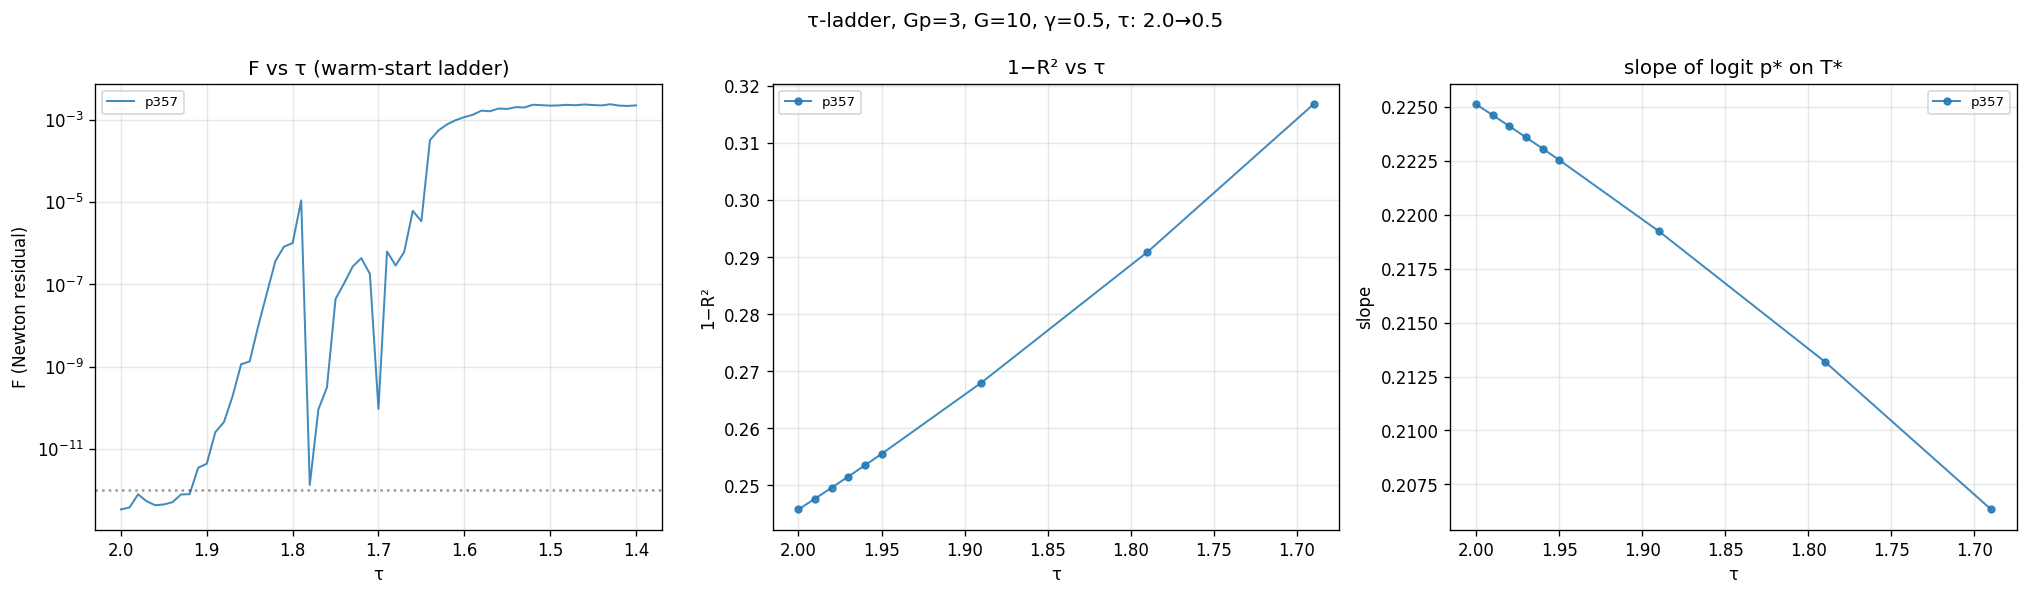
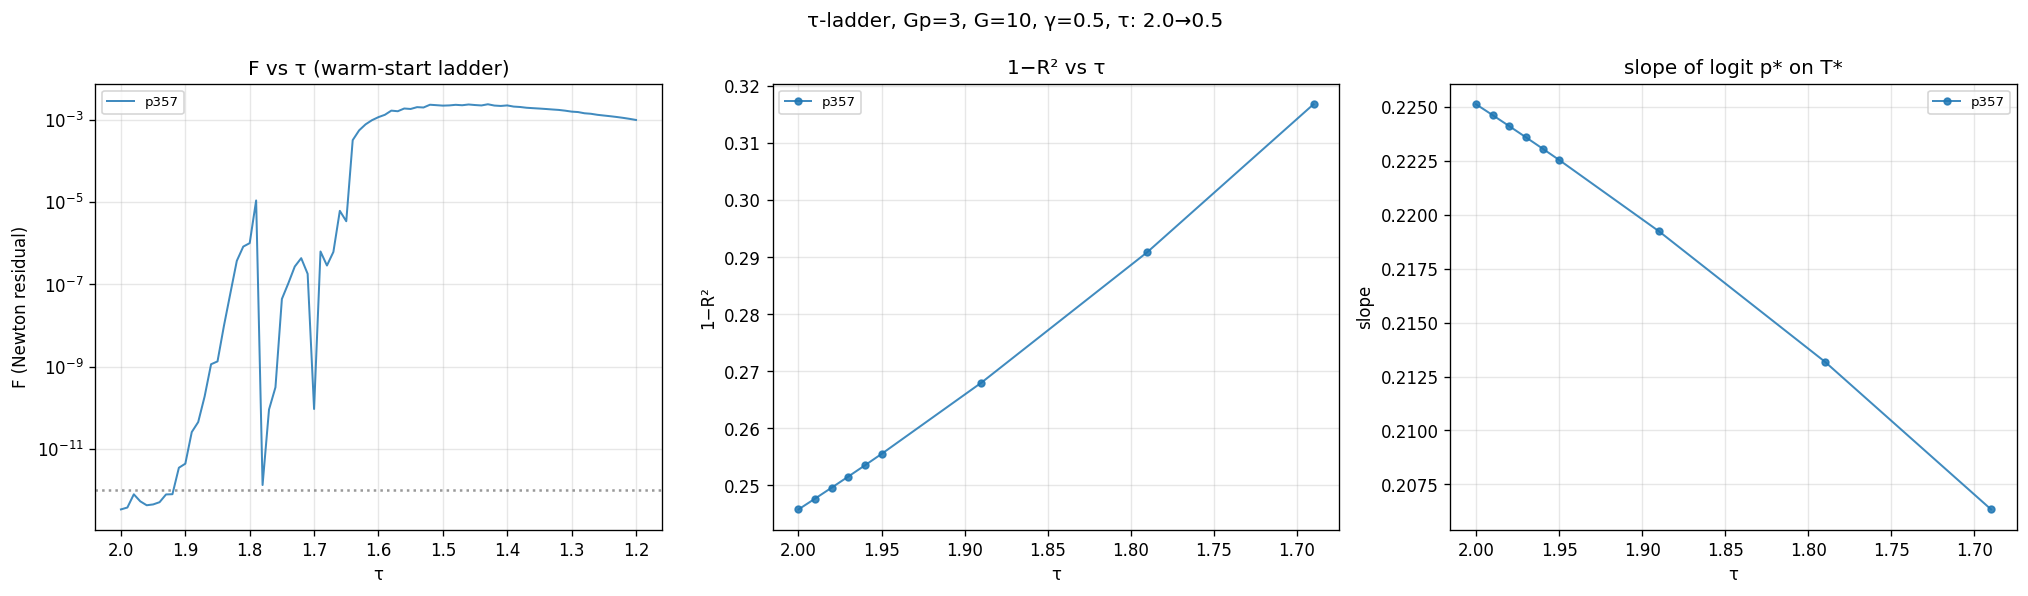
τ-ladder p357: τ→1.20

diff --git a/projects/REZN/checkpoints/tau_ladder/summary.md b/projects/REZN/checkpoints/tau_ladder/summary.md
@@ -61,3 +61,23 @@
 | p357 | 1.42 | 2.20e-03 | 1 | nan | nan | 1.2s |
 | p357 | 1.41 | 2.16e-03 | 1 | nan | nan | 1.1s |
 | p357 | 1.40 | 2.22e-03 | 2 | nan | nan | 1.4s |
+| p357 | 1.39 | 2.08e-03 | 1 | nan | nan | 1.2s |
+| p357 | 1.38 | 2.03e-03 | 1 | nan | nan | 1.2s |
+| p357 | 1.37 | 1.95e-03 | 2 | nan | nan | 1.4s |
+| p357 | 1.36 | 1.90e-03 | 1 | nan | nan | 1.2s |
+| p357 | 1.35 | 1.86e-03 | 2 | nan | nan | 1.6s |
+| p357 | 1.34 | 1.82e-03 | 2 | nan | nan | 1.7s |
+| p357 | 1.33 | 1.77e-03 | 2 | nan | nan | 1.6s |
+| p357 | 1.32 | 1.73e-03 | 2 | nan | nan | 1.4s |
+| p357 | 1.31 | 1.66e-03 | 1 | nan | nan | 1.2s |
+| p357 | 1.30 | 1.57e-03 | 2 | nan | nan | 1.4s |
+| p357 | 1.29 | 1.53e-03 | 1 | nan | nan | 1.1s |
+| p357 | 1.28 | 1.43e-03 | 2 | nan | nan | 1.4s |
+| p357 | 1.27 | 1.39e-03 | 2 | nan | nan | 1.5s |
+| p357 | 1.26 | 1.31e-03 | 2 | nan | nan | 1.4s |
+| p357 | 1.25 | 1.26e-03 | 2 | nan | nan | 1.6s |
+| p357 | 1.24 | 1.21e-03 | 2 | nan | nan | 1.5s |
+| p357 | 1.23 | 1.16e-03 | 2 | nan | nan | 1.5s |
+| p357 | 1.22 | 1.11e-03 | 2 | nan | nan | 1.5s |
+| p357 | 1.21 | 1.05e-03 | 2 | nan | nan | 1.5s |
+| p357 | 1.20 | 9.85e-04 | 2 | nan | nan | 1.5s |